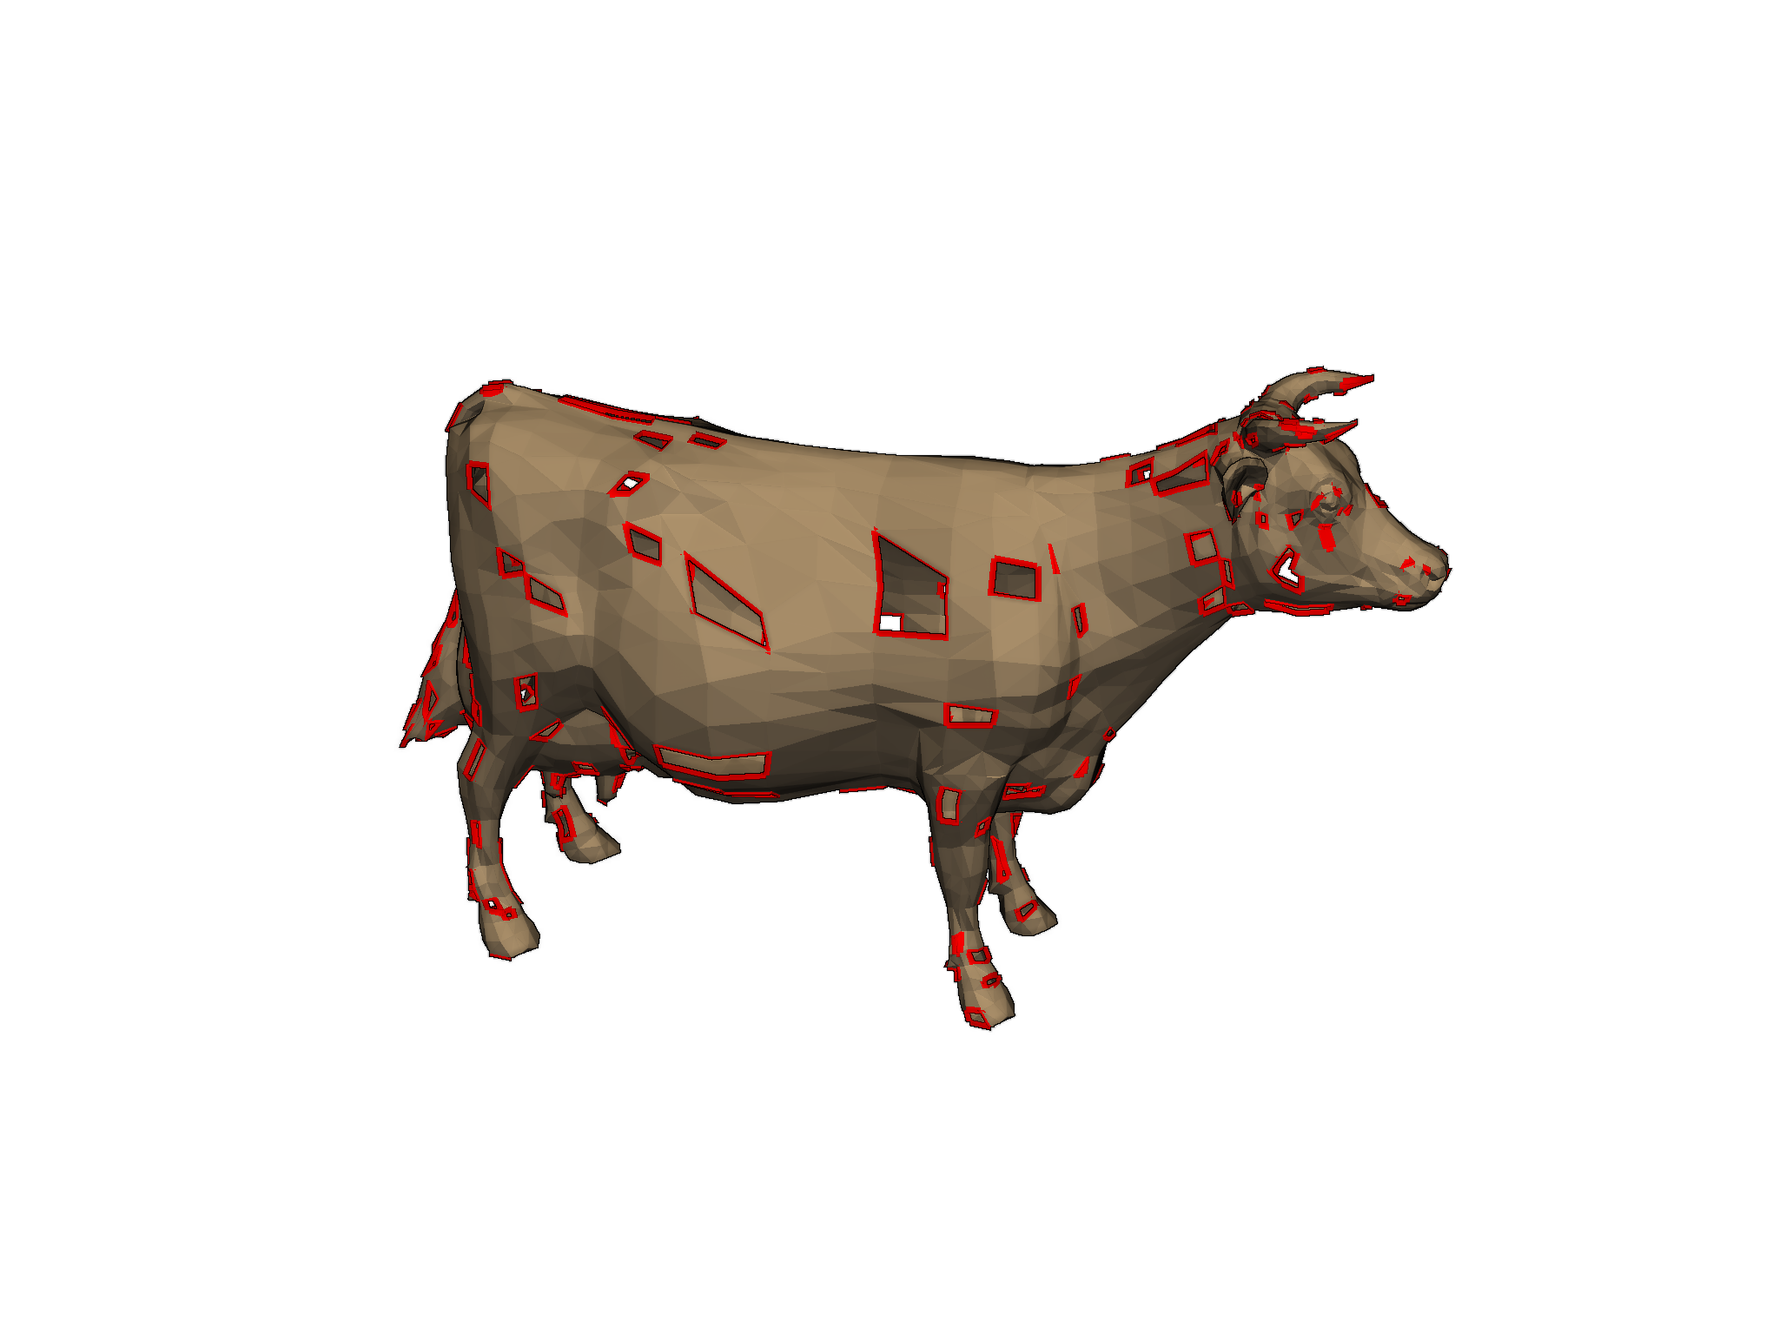
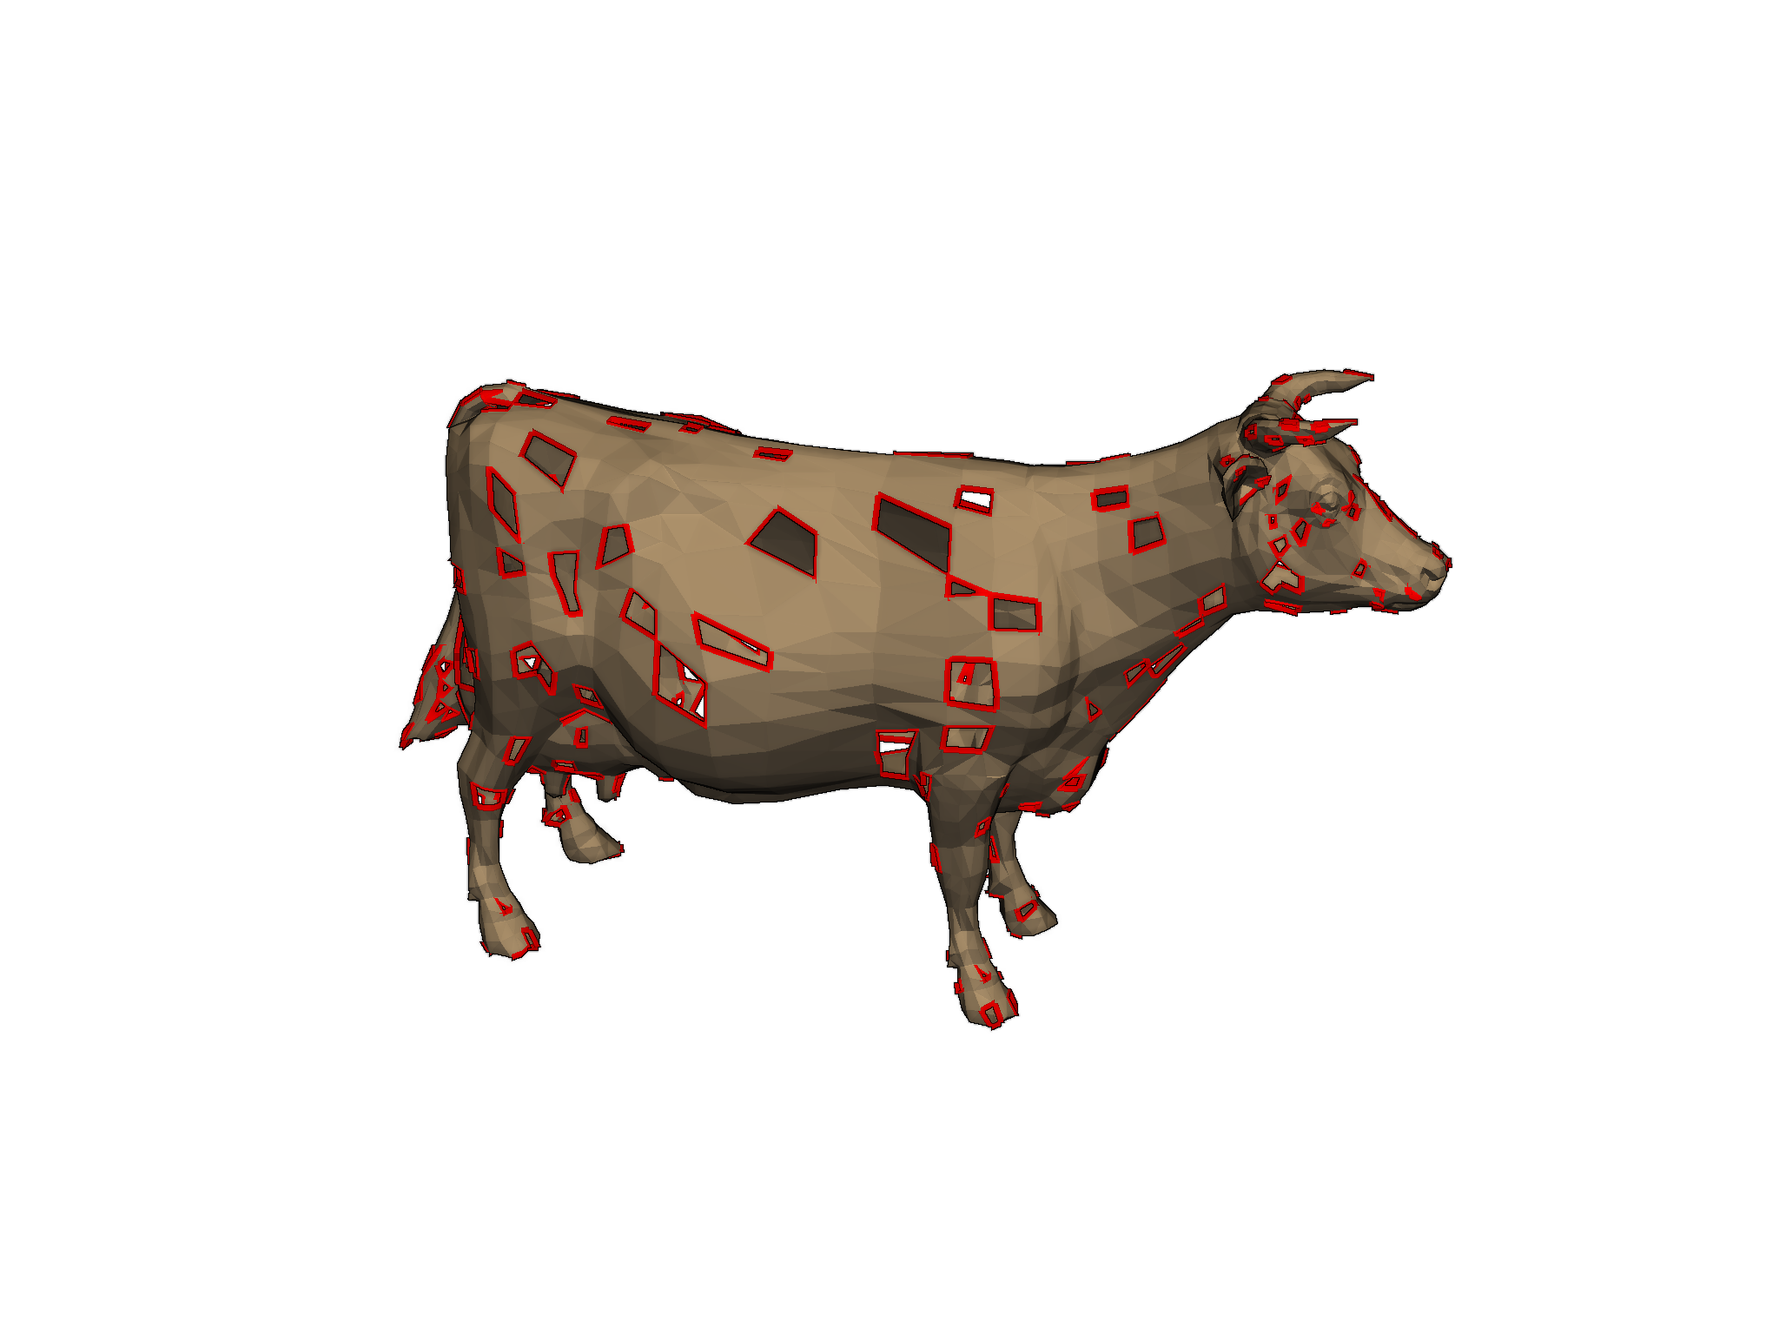
Update docs after building Travis build 54 of pyvista/pymeshfix
The docs were built from the branch 'master' against the commit
e546f50c84cab03819b79cf43d5edcfaf2949155.

The Travis build that generated this commit is at
https://travis-ci.org/pyvista/pymeshfix/jobs/546462091.

The doctr command that was run is

    /home/travis/virtualenv/python3.7.1/bin/doctr deploy --built-docs ./docs/_build/html/ .

diff --git a/searchindex.js b/searchindex.js
@@ -1,1 +1,1 @@
-Search.setIndex({docnames:["api","examples/bunny","examples/cow","examples/index","examples/sg_execution_times","examples/torso","index"],envversion:{"sphinx.domains.c":1,"sphinx.domains.changeset":1,"sphinx.domains.cpp":1,"sphinx.domains.javascript":1,"sphinx.domains.math":2,"sphinx.domains.python":1,"sphinx.domains.rst":1,"sphinx.domains.std":1,sphinx:56},filenames:["api.rst","examples/bunny.rst","examples/cow.rst","examples/index.rst","examples/sg_execution_times.rst","examples/torso.rst","index.rst"],objects:{"pymeshfix.MeshFix":{extract_holes:[0,1,1,""],load_arrays:[0,1,1,""],mesh:[0,2,1,""],plot:[0,1,1,""],repair:[0,1,1,""],save:[0,1,1,""],write:[0,1,1,""]},pymeshfix:{MeshFix:[0,0,1,""],_meshfix:[0,3,0,"-"],meshfix:[0,3,0,"-"]}},objnames:{"0":["py","class","Python class"],"1":["py","method","Python method"],"2":["py","attribute","Python attribute"],"3":["py","module","Python module"]},objtypes:{"0":"py:class","1":"py:method","2":"py:attribute","3":"py:module"},terms:{"083e":5,"0x7f7141f956a8":[2,5],"0x7f7141ff4ee8":2,"320e":5,"442e":5,"446e":2,"624e":5,"637e":2,"680e":5,"696e":2,"701e":2,"720e":5,"760e":2,"998e":2,"case":6,"class":0,"default":0,"float":6,"import":[1,2,5,6],"new":0,"public":6,"return":[0,6],"true":[0,1,2,5],"while":6,FOR:6,One:6,The:6,There:6,_meshfix:6,abov:6,absolut:5,access:[0,6],add:2,add_mesh:[1,2,5],addit:0,again:6,agreement:6,all:[0,6],allow:6,along:5,altern:6,ani:6,appi:5,approach:6,arg:0,argument:0,arrai:[0,2,5,6],ascii:0,assum:6,attempt:[0,6],atten:[0,6],author:6,award:6,base:[0,6],been:6,befor:0,begin:0,bell:6,better:6,binari:0,bool:0,both:0,bound:[2,5,6],boundari:[0,6],bring:6,bunni:[3,4],cad:6,camera:[1,2],camera_posit:[1,2,5],can:[0,6],cannot:6,cast:2,cell:[2,5],charact:0,check:6,cite:6,clean:[0,6],clean_from_arrai:6,clean_from_fil:6,click:[1,2,5],clone:6,close:6,cnr:6,coars:6,code:[1,2,5],color:[1,2,5],com:6,commerci:6,commun:6,complex:5,compon:[0,5,6],comput:6,contain:0,contract:6,control:6,copi:6,correct:6,could:6,cow:[3,4],cpo:[1,2,5],cpos_ear:5,creat:6,cython:[0,6],data:0,debug:0,defect:6,defin:1,degener:6,degeneraci:[1,2,5],deprec:0,depth:[1,2,5],design:6,detail:6,digit:6,directli:6,disabl:0,disk:0,distribut:6,doi:6,download:[1,2,5],download_bunni:1,download_cow:2,download_torso:5,drive:6,dual:6,each:0,ear:5,eas:6,either:[0,6],element:6,emphas:5,enabl:0,enable_eye_dome_light:[1,2,5],ensur:5,even:6,exampl:[1,2,4,5],execut:4,extens:0,extract:[0,1,5],extract_geometri:2,extract_hol:[0,1,2,5],eye_dome_light:5,face:[0,6],fail:6,fals:0,faster:0,fclean:6,file:[0,4],filenam:0,filetyp:0,fill:6,fill_small_boundari:6,filter:5,fit:6,fix:[1,2,5],flaw:6,follow:[0,6],format:6,foundat:6,free:6,from:[0,1,2,5,6],ftype:0,full:[1,2,5],galleri:[1,2,3,5],gener:[1,2,3,5,6],git:6,github:6,gnu:6,gpl:6,hard:6,has:6,have:6,help:[1,2,5],here:[1,2,5,6],hole:[0,1,2,5,6],holei:[3,4],holy_cow:2,hope:6,how:6,http:6,idea:6,imati:6,impli:6,infer:0,infil:6,inner_loop:6,inplac:0,input:6,int32:6,interfac:0,intersect:[1,2,5,6],invert:2,ipynb:[1,2,5],isol:0,join:[0,6],join_closest_compon:6,joincomp:0,jupyt:[1,2,5],keyword:0,kwarg:0,largest:0,later:6,left:6,leverag:6,librari:6,licens:6,lightweight:6,line:0,line_width:[1,2,5],list:6,load:[0,6],load_arrai:[0,6],loadfil:6,locat:2,mai:[0,6],main:6,marco:[0,6],max_it:6,memori:6,merchant:6,mesh:[0,1,2,5,6],meshfix:[0,1,2,5,6],method:0,might:6,minut:[1,2,5],model:6,modifi:6,modul:[0,6],more:6,much:0,must:6,n_cell:2,nativ:6,ndarrai:0,nearbi:[0,6],necessari:6,need:5,nice:2,note:0,notebook:[1,2,5],numpi:[0,2,6],object:[0,6],occurr:6,one:0,open:0,option:[0,6],org:6,other:6,out:[1,2,5,6],outfil:6,outlin:[1,2,5],output:6,over:6,overridden:0,paper:6,paramet:0,part:[5,6],particular:6,patch:[1,2,5],percept:[1,2,5],perform:[0,6],perfrom:5,pip:6,pleas:6,plot:[0,1,2,5,6],plotter:[1,2,5],ply:[0,6],point:[0,2,5],polydata:[0,2,5],polygon:6,polyhedr:5,polyhedron:6,portabl:6,posit:1,present:6,print:[0,2,5,6],process:0,produc:6,program:6,proper:6,publish:6,purpos:6,pymeshfix:[0,1,2,5],pypi:6,python:[0,1,2,5,6],pytmesh:6,pyvista:[0,1,2,5,6],rand:2,random:2,raw:6,reach:6,read:6,readi:1,reason:6,redistribut:6,refer:6,region:6,remov:[0,5,6],remove_smallest_compon:0,render:[1,2],repair:[0,1,2,5,6],repres:6,requir:6,research:6,reserv:6,result:[2,6],return_arrai:6,right:6,run:[1,2,5,6],s00371:6,same:6,save:[0,6],save_fil:6,script:[1,2,5],second:[1,2,5],see:6,self:6,set:6,should:[0,6],show:[0,1,2,5],show_edg:5,show_hol:0,simpl:0,simpli:5,singl:6,singular:6,small:5,softwar:6,solid:6,sort:6,sourc:[1,2,5,6],specif:6,specifi:0,speed:6,sphinx:[1,2,3,5],sphinx_gallery_thumbnail_numb:[1,2,5],springer:6,stl:0,str:0,string:0,subtl:5,surfac:[0,6],take:6,term:6,tessel:6,test:6,tetrahedr:0,than:0,thei:6,them:0,therefor:6,therein:6,thi:[0,5,6],three:0,threshold:2,thu:6,tight:5,time:[1,2,5],tin:6,tmesh:6,torso:[3,4],total:[1,2,4,5],tri_filt:[2,5],triangl:[5,6],triangul:2,triangular:0,txt:6,type:0,typic:6,unavail:6,under:6,understand:6,unless:0,unmodifi:6,updat:0,use:6,used:6,useful:6,user:6,uses:6,using:[0,6],vclean:6,verbos:[0,1,2,5],version:6,vertex:[0,6],view:6,visual:6,vtk:0,vtkinterfac:6,warranti:6,water:5,watertight:6,where:[5,6],whistl:6,win:6,wish:6,with_vtk:6,within:6,wonder:6,work:6,wrap:0,wrapper:[0,6],write:[0,6],written:0,www:6,xyz:0,you:6,your:6},titles:["API Reference","Bunny","Holey Cow","Examples","Computation times","Torso","PyMeshFix"],titleterms:{algorithm:6,api:0,bunni:1,citat:6,complet:6,comput:4,copyright:6,cow:2,depend:6,easi:6,exampl:[3,6],holei:2,instal:6,polici:6,pymeshfix:6,refer:0,time:4,torso:5,vtk:6,without:6}})
+Search.setIndex({docnames:["api","examples/bunny","examples/cow","examples/index","examples/sg_execution_times","examples/torso","index"],envversion:{"sphinx.domains.c":1,"sphinx.domains.changeset":1,"sphinx.domains.cpp":1,"sphinx.domains.javascript":1,"sphinx.domains.math":2,"sphinx.domains.python":1,"sphinx.domains.rst":1,"sphinx.domains.std":1,sphinx:56},filenames:["api.rst","examples/bunny.rst","examples/cow.rst","examples/index.rst","examples/sg_execution_times.rst","examples/torso.rst","index.rst"],objects:{"pymeshfix.MeshFix":{extract_holes:[0,1,1,""],load_arrays:[0,1,1,""],mesh:[0,2,1,""],plot:[0,1,1,""],repair:[0,1,1,""],save:[0,1,1,""],write:[0,1,1,""]},pymeshfix:{MeshFix:[0,0,1,""],_meshfix:[0,3,0,"-"],meshfix:[0,3,0,"-"]}},objnames:{"0":["py","class","Python class"],"1":["py","method","Python method"],"2":["py","attribute","Python attribute"],"3":["py","module","Python module"]},objtypes:{"0":"py:class","1":"py:method","2":"py:attribute","3":"py:module"},terms:{"083e":5,"0x7fa6199e2828":2,"0x7fa6199e28e8":[2,5],"320e":5,"442e":5,"446e":2,"624e":5,"637e":2,"680e":5,"696e":2,"701e":2,"720e":5,"760e":2,"998e":2,"case":6,"class":0,"default":0,"float":6,"import":[1,2,5,6],"new":0,"public":6,"return":[0,6],"true":[0,1,2,5],"while":6,FOR:6,One:6,The:6,There:6,_meshfix:6,abov:6,absolut:5,access:[0,6],add:2,add_mesh:[1,2,5],addit:0,again:6,agreement:6,all:[0,6],allow:6,along:5,altern:6,ani:6,appi:5,approach:6,arg:0,argument:0,arrai:[0,2,5,6],ascii:0,assum:6,attempt:[0,6],atten:[0,6],author:6,award:6,base:[0,6],been:6,befor:0,begin:0,bell:6,better:6,binari:0,bool:0,both:0,bound:[2,5,6],boundari:[0,6],bring:6,bunni:[3,4],cad:6,camera:[1,2],camera_posit:[1,2,5],can:[0,6],cannot:6,cast:2,cell:[2,5],charact:0,check:6,cite:6,clean:[0,6],clean_from_arrai:6,clean_from_fil:6,click:[1,2,5],clone:6,close:6,cnr:6,coars:6,code:[1,2,5],color:[1,2,5],com:6,commerci:6,commun:6,complex:5,compon:[0,2,5,6],comput:6,contain:0,contract:6,control:6,copi:6,correct:6,could:6,cow:[3,4],cpo:[1,2,5],cpos_ear:5,creat:6,cython:[0,6],data:0,debug:0,defect:6,defin:1,degener:6,degeneraci:[1,2,5],deprec:0,depth:[1,2,5],design:6,detail:6,digit:6,directli:6,disabl:0,disk:0,distribut:6,doi:6,download:[1,2,5],download_bunni:1,download_cow:2,download_torso:5,drive:6,dual:6,each:0,ear:5,eas:6,either:[0,6],element:6,emphas:5,enabl:0,enable_eye_dome_light:[1,2,5],ensur:5,even:6,exampl:[1,2,4,5],execut:4,extens:0,extract:[0,1,5],extract_geometri:2,extract_hol:[0,1,2,5],eye_dome_light:5,face:[0,6],fail:6,fals:0,faster:0,fclean:6,file:[0,4],filenam:0,filetyp:0,fill:6,fill_small_boundari:6,filter:5,fit:6,fix:[1,2,5],flaw:6,follow:[0,6],format:6,foundat:6,free:6,from:[0,1,2,5,6],ftype:0,full:[1,2,5],galleri:[1,2,3,5],gener:[1,2,3,5,6],git:6,github:6,gnu:6,gpl:6,hard:6,has:6,have:6,help:[1,2,5],here:[1,2,5,6],hole:[0,1,2,5,6],holei:[3,4],holy_cow:2,hope:6,how:6,http:6,idea:6,imati:6,impli:6,infer:0,infil:6,inner_loop:6,inplac:0,input:6,int32:6,interfac:0,intersect:[1,2,5,6],invert:2,ipynb:[1,2,5],isol:0,join:[0,6],join_closest_compon:6,joincomp:0,jupyt:[1,2,5],keyword:0,kwarg:0,largest:0,later:6,left:6,leverag:6,librari:6,licens:6,lightweight:6,line:0,line_width:[1,2,5],list:6,load:[0,6],load_arrai:[0,6],loadfil:6,locat:2,mai:[0,6],main:6,marco:[0,6],max_it:6,memori:6,merchant:6,mesh:[0,1,2,5,6],meshfix:[0,1,2,5,6],method:0,might:6,minut:[1,2,5],model:6,modifi:6,modul:[0,6],more:6,much:0,must:6,n_cell:2,nativ:6,ndarrai:0,nearbi:[0,6],necessari:6,need:5,nice:2,note:0,notebook:[1,2,5],numpi:[0,2,6],object:[0,6],occurr:6,one:0,open:0,option:[0,6],org:6,other:6,out:[1,2,5,6],outfil:6,outlin:[1,2,5],output:6,over:6,overridden:0,paper:6,paramet:0,part:[5,6],particular:6,patch:[1,2,5],percept:[1,2,5],perform:[0,6],perfrom:5,pip:6,pleas:6,plot:[0,1,2,5,6],plotter:[1,2,5],ply:[0,6],point:[0,2,5],polydata:[0,2,5],polygon:6,polyhedr:5,polyhedron:6,portabl:6,posit:1,present:6,print:[0,2,5,6],process:0,produc:6,program:6,proper:6,publish:6,purpos:6,pymeshfix:[0,1,2,5],pypi:6,python:[0,1,2,5,6],pytmesh:6,pyvista:[0,1,2,5,6],rand:2,random:2,raw:6,reach:6,read:6,readi:1,reason:6,redistribut:6,refer:6,region:6,remov:[0,2,5,6],remove_smallest_compon:0,render:[1,2],repair:[0,1,2,5,6],repres:6,requir:6,research:6,reserv:6,result:[2,6],return_arrai:6,right:6,run:[1,2,5,6],s00371:6,same:6,save:[0,6],save_fil:6,script:[1,2,5],second:[1,2,5],see:6,self:6,set:6,should:[0,6],show:[0,1,2,5],show_edg:5,show_hol:0,simpl:0,simpli:5,singl:6,singular:6,small:[2,5],softwar:6,solid:6,sort:6,sourc:[1,2,5,6],specif:6,specifi:0,speed:6,sphinx:[1,2,3,5],sphinx_gallery_thumbnail_numb:[1,2,5],springer:6,stl:0,str:0,string:0,subtl:5,surfac:[0,6],take:6,term:6,tessel:6,test:6,tetrahedr:0,than:0,thei:6,them:0,therefor:6,therein:6,thi:[0,5,6],three:0,threshold:2,thu:6,tight:5,time:[1,2,5],tin:6,tmesh:6,torso:[3,4],total:[1,2,4,5],tri_filt:[2,5],triangl:[5,6],triangul:2,triangular:0,txt:6,type:0,typic:6,unavail:6,under:6,understand:6,unless:0,unmodifi:6,updat:0,use:6,used:6,useful:6,user:6,uses:6,using:[0,6],vclean:6,verbos:[0,1,2,5],version:6,vertex:[0,6],view:6,visual:6,vtk:0,vtkinterfac:6,warranti:6,water:5,watertight:6,where:[5,6],whistl:6,win:6,wish:6,with_vtk:6,within:6,wonder:6,work:6,wrap:0,wrapper:[0,6],write:[0,6],written:0,www:6,xyz:0,you:6,your:6},titles:["API Reference","Bunny","Holey Cow","Examples","Computation times","Torso","PyMeshFix"],titleterms:{algorithm:6,api:0,bunni:1,citat:6,complet:6,comput:4,copyright:6,cow:2,depend:6,easi:6,exampl:[3,6],holei:2,instal:6,polici:6,pymeshfix:6,refer:0,time:4,torso:5,vtk:6,without:6}})

diff --git a/examples/cow.html b/examples/cow.html
@@ -223,8 +223,8 @@
 </pre></div>
 </div>
 <p class="sphx-glr-script-out">Out:</p>
-<div class="sphx-glr-script-out highlight-none notranslate"><div class="highlight"><pre><span></span>PolyData (0x7f7141f956a8)
-  N Cells:      5208
+<div class="sphx-glr-script-out highlight-none notranslate"><div class="highlight"><pre><span></span>PolyData (0x7fa6199e28e8)
+  N Cells:      5195
   N Points:     2903
   X Bounds:     -4.446e+00, 5.998e+00
   Y Bounds:     -3.637e+00, 2.760e+00
@@ -255,8 +255,9 @@
 </pre></div>
 </div>
 <p class="sphx-glr-script-out">Out:</p>
-<div class="sphx-glr-script-out highlight-none notranslate"><div class="highlight"><pre><span></span>Patching holes...
-Patched 194 holes
+<div class="sphx-glr-script-out highlight-none notranslate"><div class="highlight"><pre><span></span>Removed 2 small components
+Patching holes...
+Patched 205 holes
 Fixing degeneracies and intersections
 </pre></div>
 </div>
@@ -266,9 +267,9 @@ Fixing degeneracies and intersections
 </pre></div>
 </div>
 <p class="sphx-glr-script-out">Out:</p>
-<div class="sphx-glr-script-out highlight-none notranslate"><div class="highlight"><pre><span></span>PolyData (0x7f7141ff4ee8)
-  N Cells:      5450
-  N Points:     2727
+<div class="sphx-glr-script-out highlight-none notranslate"><div class="highlight"><pre><span></span>PolyData (0x7fa6199e2828)
+  N Cells:      5448
+  N Points:     2726
   X Bounds:     -3.696e+00, 5.998e+00
   Y Bounds:     -3.637e+00, 2.760e+00
   Z Bounds:     -1.701e+00, 1.701e+00
@@ -279,7 +280,7 @@ Fixing degeneracies and intersections
 </pre></div>
 </div>
 <img alt="../_images/sphx_glr_cow_002.png" class="sphx-glr-single-img" src="../_images/sphx_glr_cow_002.png" />
-<p class="sphx-glr-timing"><strong>Total running time of the script:</strong> ( 0 minutes  5.249 seconds)</p>
+<p class="sphx-glr-timing"><strong>Total running time of the script:</strong> ( 0 minutes  5.131 seconds)</p>
 <div class="sphx-glr-footer class sphx-glr-footer-example docutils container" id="sphx-glr-download-examples-cow-py">
 <div class="sphx-glr-download docutils container">
 <p><a class="reference download internal" download="" href="../_downloads/700f1bf357ea69088c0a34b0aa306d26/cow.py"><code class="xref download docutils literal notranslate"><span class="pre">Download</span> <span class="pre">Python</span> <span class="pre">source</span> <span class="pre">code:</span> <span class="pre">cow.py</span></code></a></p>

diff --git a/examples/sg_execution_times.html b/examples/sg_execution_times.html
@@ -193,11 +193,11 @@
             
   <div class="section" id="computation-times">
 <span id="sphx-glr-examples-sg-execution-times"></span><h1>Computation times<a class="headerlink" href="#computation-times" title="Permalink to this headline">¶</a></h1>
-<p><strong>00:36.324</strong> total execution time for <strong>examples</strong> files:</p>
+<p><strong>00:35.577</strong> total execution time for <strong>examples</strong> files:</p>
 <ul class="simple">
-<li><p><strong>00:17.183</strong>: <a class="reference internal" href="torso.html#sphx-glr-examples-torso-py"><span class="std std-ref">Torso</span></a> (<code class="docutils literal notranslate"><span class="pre">torso.py</span></code>)</p></li>
-<li><p><strong>00:13.892</strong>: <a class="reference internal" href="bunny.html#sphx-glr-examples-bunny-py"><span class="std std-ref">Bunny</span></a> (<code class="docutils literal notranslate"><span class="pre">bunny.py</span></code>)</p></li>
-<li><p><strong>00:05.249</strong>: <a class="reference internal" href="cow.html#sphx-glr-examples-cow-py"><span class="std std-ref">Holey Cow</span></a> (<code class="docutils literal notranslate"><span class="pre">cow.py</span></code>)</p></li>
+<li><p><strong>00:16.853</strong>: <a class="reference internal" href="torso.html#sphx-glr-examples-torso-py"><span class="std std-ref">Torso</span></a> (<code class="docutils literal notranslate"><span class="pre">torso.py</span></code>)</p></li>
+<li><p><strong>00:13.593</strong>: <a class="reference internal" href="bunny.html#sphx-glr-examples-bunny-py"><span class="std std-ref">Bunny</span></a> (<code class="docutils literal notranslate"><span class="pre">bunny.py</span></code>)</p></li>
+<li><p><strong>00:05.131</strong>: <a class="reference internal" href="cow.html#sphx-glr-examples-cow-py"><span class="std std-ref">Holey Cow</span></a> (<code class="docutils literal notranslate"><span class="pre">cow.py</span></code>)</p></li>
 </ul>
 </div>
 

diff --git a/404.html b/404.html
@@ -9,7 +9,7 @@
   
   <meta name="viewport" content="width=device-width, initial-scale=1.0">
   
-  <title> &mdash; pymeshfix 0.13.1 documentation</title>
+  <title>Page not found &mdash; pymeshfix 0.13.1 documentation</title>
   
 
   
@@ -22,12 +22,12 @@
   
     
       <script type="text/javascript" id="documentation_options" data-url_root="#" src="/_static/documentation_options.js"></script>
-        <script type="text/javascript" src="_static/jquery.js"></script>
-        <script type="text/javascript" src="_static/underscore.js"></script>
-        <script type="text/javascript" src="_static/doctools.js"></script>
-        <script type="text/javascript" src="_static/language_data.js"></script>
+        <script type="text/javascript" src="/_static/jquery.js"></script>
+        <script type="text/javascript" src="/_static/underscore.js"></script>
+        <script type="text/javascript" src="/_static/doctools.js"></script>
+        <script type="text/javascript" src="/_static/language_data.js"></script>
         <script type="text/javascript" src="https://cdnjs.cloudflare.com/ajax/libs/clipboard.js/2.0.0/clipboard.min.js"></script>
-        <script type="text/javascript" src="_static/copybutton.js"></script>
+        <script type="text/javascript" src="/_static/copybutton.js"></script>
     
     <script type="text/javascript" src="/_static/js/theme.js"></script>
 
@@ -170,7 +170,7 @@
     
       <li><a href="/index.html">Docs</a> &raquo;</li>
         
-      <li></li>
+      <li>Page not found</li>
     
     
       <li class="wy-breadcrumbs-aside">

diff --git a/examples/torso.html b/examples/torso.html
@@ -219,7 +219,7 @@ parts of the mesh</p>
 </pre></div>
 </div>
 <p class="sphx-glr-script-out">Out:</p>
-<div class="sphx-glr-script-out highlight-none notranslate"><div class="highlight"><pre><span></span>PolyData (0x7f7141f956a8)
+<div class="sphx-glr-script-out highlight-none notranslate"><div class="highlight"><pre><span></span>PolyData (0x7fa6199e28e8)
   N Cells:      12448
   N Points:     12015
   X Bounds:     -1.680e+02, 1.720e+02
@@ -282,7 +282,7 @@ Fixing degeneracies and intersections
 </pre></div>
 </div>
 <img alt="../_images/sphx_glr_torso_004.png" class="sphx-glr-single-img" src="../_images/sphx_glr_torso_004.png" />
-<p class="sphx-glr-timing"><strong>Total running time of the script:</strong> ( 0 minutes  17.183 seconds)</p>
+<p class="sphx-glr-timing"><strong>Total running time of the script:</strong> ( 0 minutes  16.853 seconds)</p>
 <div class="sphx-glr-footer class sphx-glr-footer-example docutils container" id="sphx-glr-download-examples-torso-py">
 <div class="sphx-glr-download docutils container">
 <p><a class="reference download internal" download="" href="../_downloads/988781b05954ec5068adbfe7a980b827/torso.py"><code class="xref download docutils literal notranslate"><span class="pre">Download</span> <span class="pre">Python</span> <span class="pre">source</span> <span class="pre">code:</span> <span class="pre">torso.py</span></code></a></p>

diff --git a/examples/bunny.html b/examples/bunny.html
@@ -255,7 +255,7 @@ Fixing degeneracies and intersections
 </pre></div>
 </div>
 <img alt="../_images/sphx_glr_bunny_003.png" class="sphx-glr-single-img" src="../_images/sphx_glr_bunny_003.png" />
-<p class="sphx-glr-timing"><strong>Total running time of the script:</strong> ( 0 minutes  13.892 seconds)</p>
+<p class="sphx-glr-timing"><strong>Total running time of the script:</strong> ( 0 minutes  13.593 seconds)</p>
 <div class="sphx-glr-footer class sphx-glr-footer-example docutils container" id="sphx-glr-download-examples-bunny-py">
 <div class="sphx-glr-download docutils container">
 <p><a class="reference download internal" download="" href="../_downloads/81a10a6450959c49a589aa8cee630836/bunny.py"><code class="xref download docutils literal notranslate"><span class="pre">Download</span> <span class="pre">Python</span> <span class="pre">source</span> <span class="pre">code:</span> <span class="pre">bunny.py</span></code></a></p>
